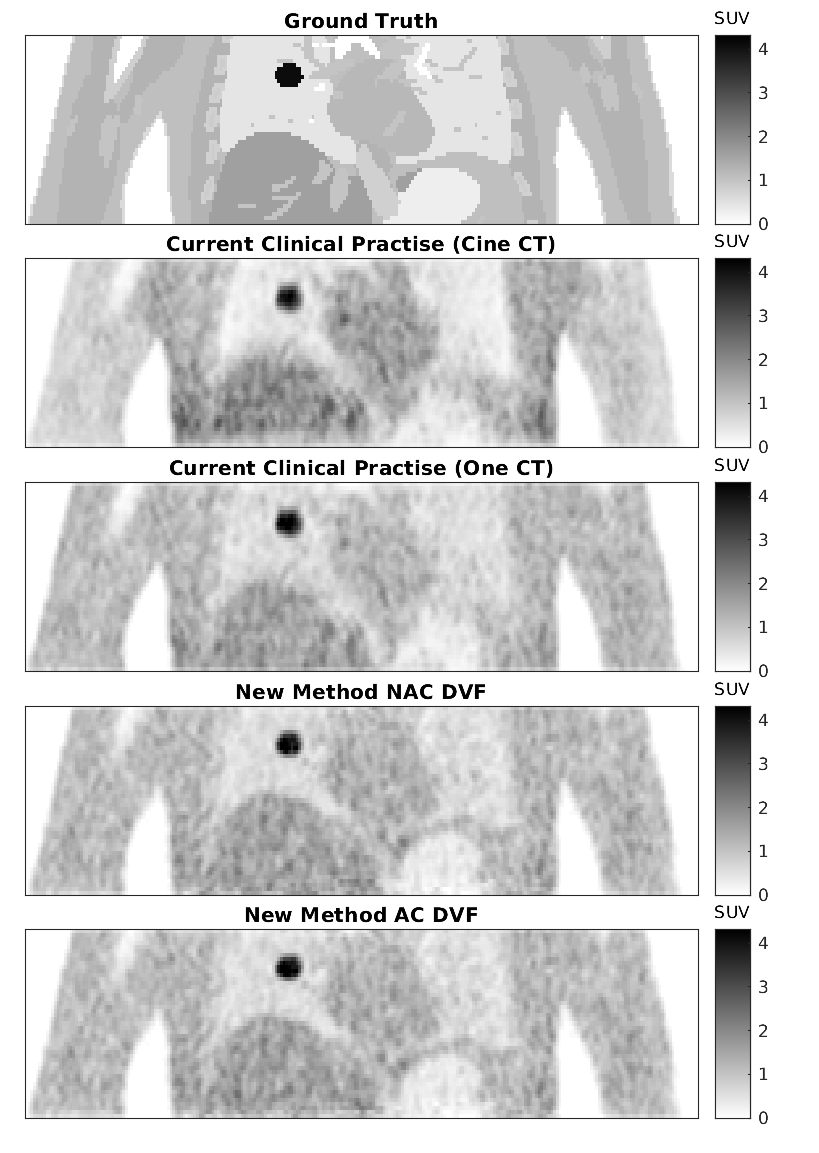
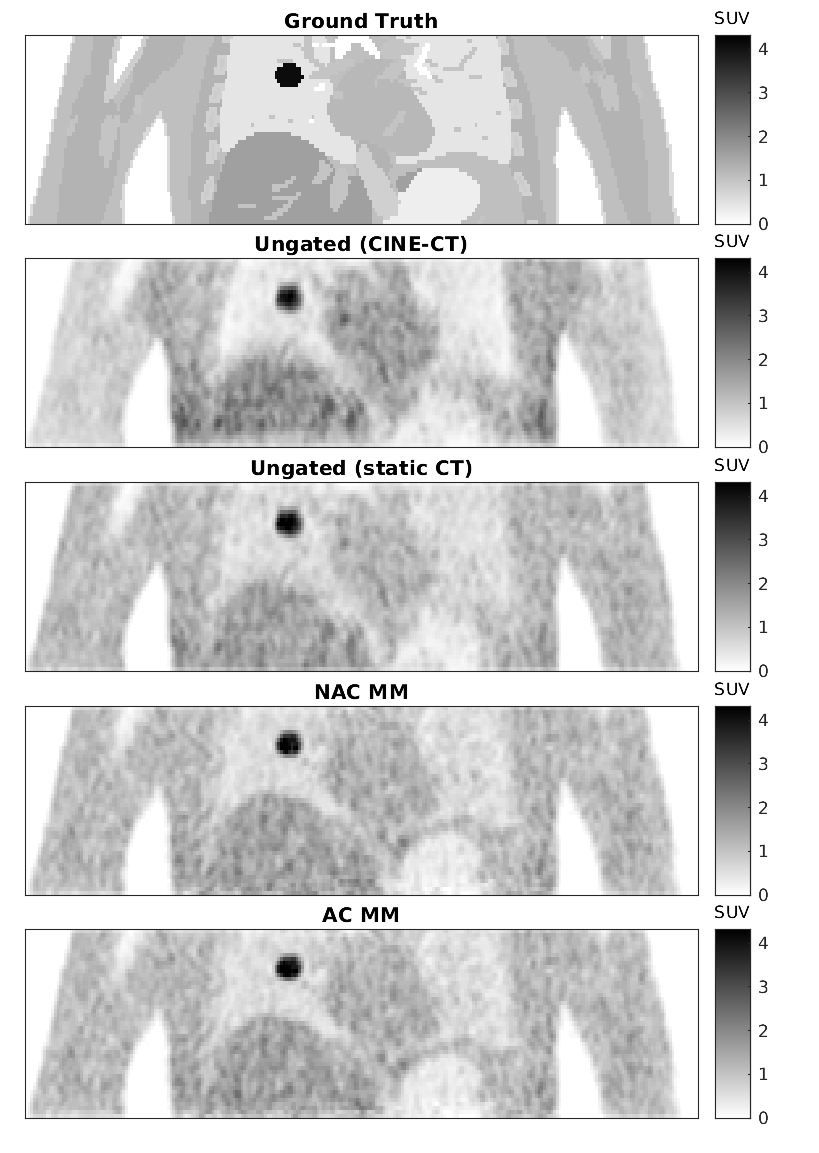
Updates from Overleaf

diff --git a/body.tex b/body.tex
@@ -1,63 +1,63 @@
 \section{Introduction} \label{sec:introduction}
-    \IEEEPARstart{R}{espiratory} motion reduces image resolution in \gls{PET} by introducing blurring \& mis-alignment artefacts~\cite{Nehmeh2008a}. Unless gated \gls{CT} are available (which themselves increase dose to the patient), to avoid mis-registration due to attenuation mismatches, most existing \gls{MC} methods rely on pair-wise registration of gated \gls{NAC} \gls{PET} volumes~\cite{LungMotionDiaphragmBaiBib}.%~\cite{Oliveira2014}.
-    This is a challenging problem due to the low contrast \& high noise of these volumes. Other \gls{MC} methods can incorporate, directly, both \gls{MC} \& \glss{Mu-Map} estimation into reconstruction, however, these can be computationally expensive~\cite{Bousse2016b}.
+    \IEEEPARstart{R}{espiratory} motion reduces image resolution in \gls{PET} by introducing blurring and mis-alignment artefacts~\cite{Nehmeh2008a}. Unless gated \gls{CT} are available (which themselves increase dose to the patient), to avoid mis-registration due to attenuation mismatches, most existing \gls{MC} methods rely on pair-wise registration of gated \gls{NAC} \gls{PET} volumes~\cite{LungMotionDiaphragmBaiBib}.%~\cite{Oliveira2014}.
+    This is a challenging problem due to the low contrast and high noise of these volumes. Other \gls{MC} methods can incorporate, directly, both \gls{MC} and \glss{Mu-Map} estimation into reconstruction, however, these can be computationally expensive~\cite{Bousse2016b}.
     
-    One \gls{MM} method uses \gls{3D} B-spline \glss{CPG} with the corresponding warping operation denoted as $\mathbf{W}(\mathbf{\alpha}_t)$, with $\mathbf{\alpha}_t$ a vector with coefficients at time $t$ \& the breathing surrogate signal $\mathbf{s}$:
-    
-    \vspace{-0.5cm}
-    
-    \begin{equation}
-        \forall t \in [1, n_t],\quad \alpha_{k, t} := R_{1, k} s_{1, t} + R_{2, k}
-    \end{equation}
-    
-    \vspace{-0.25cm}
-    
-    \noindent where $\alpha_{k, t}$ is the coefficient for node $k$ at time point $t$, \& $R_{i, k}$ are the model parameters where $i = [1, 2]$~\cite{McClelland2017}. One of the advantages of using a \gls{MM} approach over registering all the data to a static volume is that by incorporating a fit on the \gls{SS} noise from outlying registrations is diminished.
-    
-    In our previous work we investigated the possibility of using \gls{MM} for respiratory \gls{MC} where the \gls{RCM} was derived from \gls{NAC} \gls{PET}. We found that \gls{NAC} \gls{TOF} \gls{PET} was suitable to estimate the motion from gated PET data without inter-respiratory cycle variation~\cite{Whitehead2019ImpactPET}. This work extends the method towards \gls{AC} with a single \gls{Mu-Map} (from any position).
+    In our previous work we investigated the possibility of using \gls{MM} for respiratory \gls{MC} where the \gls{RCM} was derived from \gls{NAC} \gls{PET}. One of the advantages of using a \gls{MM} approach over pair-wise registering the data is that by incorporating a fit of the \gls{DVF} to the \gls{SS}, noise is diminished. We found that \gls{NAC} \gls{TOF} \gls{PET} was suitable to estimate the motion from gated PET data without inter-respiratory cycle variation~\cite{Whitehead2019ImpactPET}. This work extends the method towards attenuation correction with a single \gls{Mu-Map} (from any position).
 
-\vspace{-0.75cm}
+\vspace{-0.5cm}
 
 \section{Methods} \label{sec:methods}
     \subsection{XCAT Volume Generation} \label{sec:xcat_volume_generation}
-        \gls{XCAT}%~\cite{Segars2010}
-        was used to generate $240$ volumes over a \SI{120}{\second} respiratory trace (with inter-respiratory cycle variation) derived from a data captured using a \gls{RPM}. The max displacement of \gls{AP} \& \gls{SI} motion was set to \SI{1.2}{\centi\metre} \& \SI{2.0}{\centi\metre} respectively. Activity concentrations were derived from a static \gls{FDG} patient scan. The \gls{FOV} included the base of the lungs, diaphragm \& the top of the liver with a \SI{20}{\milli\metre} diameter spherical lesion placed into the centre of the right lung.
+        \gls{XCAT}%~\cite{Segars2010} 
+        was used to generate $240$ volumes over a \SI{120}{\second} respiratory trace (with inter-respiratory cycle variation) derived from a data captured using a \gls{RPM}. The max displacement of \gls{AP} and \gls{SI} motion was set to \SI{1.2}{\centi\metre} and \SI{2.0}{\centi\metre} respectively. Activity concentrations were derived from a static \gls{FDG} patient scan. The \gls{FOV} included the base of the lungs, diaphragm and the top of the liver with a \SI{20}{\milli\metre} diameter spherical lesion placed into the centre of the right lung.
     
     \vspace{-0.5cm}
     
     \subsection{PET Acquisition Simulation} \label{sec:pet_acquisition_simulation}
         \gls{PET} acquisitions were simulated %(and reconstructed)
-        using \gls{STIR}~\cite{Thielemans2012, Efthimiou2018} through \gls{SIRF}~\cite{ Ovtchinnikov2019CCPPETMRSIRF} to forward project the data using the geometry of a \gls{GE} Discovery $710$ with a \gls{TOF} resolution of \SI{375}{\pico\second}. This \gls{TOF} resolution is higher than that of the \gls{GE} Discovery $710$, but is closer to the newer \gls{GE} Signa \gls{PET}/\gls{MR} system. \gls{TOF} mashing is used to reduce computation time resulting in $13$ \gls{TOF} time bins of size \SI{376.5}{\pico\second}. Attenuation was included using the relevant \glss{Mu-Map} generated by \gls{XCAT}. Scatter \& randoms were not taken into account. Multiple noise realisations were generated to simulate an acquisition over \SI{120}{\second}, emulating a standard single bed position acquisition. A respiratory \gls{SS} was generated using \gls{PCA}.%~\cite{Thielemans2011}.
+        using \gls{STIR}~\cite{Thielemans2012, Efthimiou2018} through the \gls{SIRF}~\cite{Ovtchinnikov2019CCPPETMRSIRF} to forward project the data using the geometry of a \gls{GE} Discovery $710$ with a \gls{TOF} resolution of \SI{375}{\pico\second}. This \gls{TOF} resolution is higher than that of the $710$, but is closer to the newer \gls{GE} Signa PET/MR system. \gls{TOF} mashing was used to reduce computation time resulting in $13$ \gls{TOF} time bins of size \SI{376.5}{\pico\second}. Attenuation was included using the relevant \glss{Mu-Map} generated by \gls{XCAT}. Scatter and randoms were not taken into account. Multiple noise realisations were generated to simulate an acquisition over \SI{120}{\second}, emulating a standard single bed position acquisition. A respiratory \gls{SS} was generated using \gls{PCA}~\cite{Thielemans2011}.
         This was used to gate the data into $10$ respiratory bins using displacement gating.% For the purpose of the \gls{RCM} fitting, \gls{SS} values were ascertained for the post-gated data by taking an average of the \gls{SS} values of the data in each bin.
     
     \vspace{-0.5cm}
     
     \subsection{Non-Attenuation Corrected Image Reconstruction} \label{sec:non-attenuation_corrected_image_reconstruction}
-        Data were reconstructed without \gls{AC} using \gls{OSEM} with two full iterations \& $24$ subsets.%~\cite{Hudson1994}.
+        Data were reconstructed without \gls{AC} using \gls{OSEM} with two full iterations and $24$ subsets.%~\cite{Hudson1994}.
         Volumes were post-filtered using a Gaussian blur with a kernel size of \SI{6.4}{\milli\metre} \gls{FWHM}.
     
     \vspace{-0.5cm}
     
     \subsection{Motion Model Estimation} \label{sec:motion_model_estimation}
-        For each dataset \gls{3D} B-spline interpolated \glss{CPG} were used to model spatial deformations. A generalised framework unifying \gls{IR} \& respiratory \glss{MM} was used to estimate \glss{RCM} \& \glss{MCI}~\cite{McClelland2017}. \gls{SSD} was used as the similarity measure \& bending energy was used as a penalty.% The \gls{CPG} spacing \& penalty weight were tuned using a grid search.
+        The \gls{MM} method used in this work uses \gls{3D} B-spline \glss{CPG} with the corresponding warping operation denoted as $\mathbf{W}(\mathbf{\alpha}_t)$, with $\mathbf{\alpha}_t$ a vector with coefficients at time $t$ and the breathing surrogate signal $\mathbf{s}$:
+    
+        \vspace{-0.25cm}
+        
+        \begin{equation}
+            \forall t \in [1, n_t],\quad \alpha_{k, t} := R_{1, k} s_{1, t} + R_{2, k}
+        \end{equation}
+        
+        \vspace{-0.025cm}
+        
+        \noindent where $\alpha_{k, t}$ is the coefficient for node $k$ at time point $t$, and $R_{i, k}$ are the model parameters where $i = [1, 2]$~\cite{McClelland2017}. A generalised framework unifying \gls{IR} and respiratory \glss{MM} was used to estimate \glss{RCM} and \glss{MCI}~\cite{McClelland2017}. \gls{SSD} was used as the similarity measure and bending energy was used as a penalty.% The \gls{CPG} spacing and penalty weight were tuned using a grid search.
     
     \vspace{-0.5cm}
     
     \subsection{Attenuation Map Warping} \label{sec:attenuation_map_warping}
-        A \gls{Mu-Map}, as close to the mean respiratory position as possible, was selected from the \glss{Mu-Map} generated by \gls{XCAT}, this \gls{Mu-Map} was then registered to the mean position volume generated while fitting the \gls{RCM} from~\Fref{sec:motion_model_estimation}. A \gls{NMI} registration was used to accomplish this.% with parameters selected using a grid search.
+        A \gls{Mu-Map} close to the mean respiratory position was selected from the \glss{Mu-Map} generated by \gls{XCAT}, this \gls{Mu-Map} was then registered (using \gls{NMI}) to the mean position NAC volume generated from the \gls{RCM}.
         The \gls{RCM} was then used to generate \glss{DVF} for the \gls{SS} values of each bin, which were then used to warp the \gls{Mu-Map} from the mean respiratory position to each bin.
     
     \vspace{-0.5cm}
     
-    \subsection{Attenuation Corrected Motion Corrected Image Reconstruction} \label{sec:attenuation_corrected_image_reconstruction}
-        Data were re-reconstructed with \gls{AC} using the \glss{Mu-Map} from~\Fref{sec:attenuation_map_warping}. The same reconstruction parameters as in~\Fref{sec:attenuation_corrected_image_reconstruction} were used. This data was then either \gls{MC} using the original \gls{NAC} \gls{RCM} or a new \gls{RCM} was fit on the \gls{AC} data as in~\Fref{sec:motion_model_estimation}.
+    \subsection{Motion Corrected Image Reconstruction with AC} \label{sec:attenuation_corrected_image_reconstruction}
+        Data were re-reconstructed with \gls{AC} using the \glss{Mu-Map} from~\Fref{sec:attenuation_map_warping}. The same reconstruction parameters as in~\Fref{sec:attenuation_corrected_image_reconstruction} were used. This data was then either motion correction using the original \gls{NAC} \gls{RCM} or a new \gls{RCM} was fit on the \gls{AC} volumes as in~\Fref{sec:motion_model_estimation}.
     
     \vspace{-0.5cm}
     
     \subsection{Evaluation} \label{sec:evaluation}
-        %To evaluate the validity of the \gls{MM} results, the \gls{COM} of the lesion, over time, was tracked for both \gls{NAC} \& \gls{AC} reconstructions. This was achieved by warping a volume only including the lesion in the reference position, \& then computing its \gls{COM}.
+        %To evaluate the validity of the \gls{MM} results, the \gls{COM} of the lesion, over time, was tracked for both \gls{NAC} and \gls{AC} reconstructions. This was achieved by warping a volume only including the lesion in the reference position, and then computing its \gls{COM}.
         
-        In addition to the reconstructions performed in~\Fref{sec:attenuation_corrected_image_reconstruction} data were also reconstructed by simply summing all gates together \& using either a sum of all \glss{Mu-Map} (to emulate a \gls{CCT}) or one \gls{Mu-Map}, positioned as close to the mean respiratory position as possible, for \gls{AC}, this process matches \gls{CCP}. The data from this approach was used to evaluate the improvement that the new method afforded. The comparisons used included: A profile over the lesion \& \gls{SUV}\textsubscript{max}, \gls{SUV}\textsubscript{median} \& \gls{SUV}\textsubscript{peak}. \gls{SUV}\textsubscript{peak} here was defined following \gls{EANM} guidelines.%~\cite{Boellaard2015FDG2.0}
+        In addition to the reconstructions performed in~\Fref{sec:attenuation_corrected_image_reconstruction} data were also reconstructed after simply summing all gates together,  using either a sum of all \glss{Mu-Map} (to emulate an average CINE-CT) or one \gls{Mu-Map}, positioned  close to the mean respiratory position. This process matches clinical practise . 
+        
+        Comparisons used included: A profile over the lesion and \gls{SUV}\textsubscript{max}, \gls{SUV}\textsubscript{median} and \gls{SUV}\textsubscript{peak}. \gls{SUV}\textsubscript{peak} here was defined following \gls{EANM} guidelines.%~\cite{Boellaard2015FDG2.0}
 
 \vspace{-0.5cm}
 
@@ -66,18 +66,18 @@
     %    \centering
     %    \includegraphics[width=0.5\linewidth]{figures/com.png}
     %    \captionsetup{singlelinecheck=false, justification=centering}
-    %    \caption{The path of the \gls{COM} of the lesion. Horizontal (respectively vertical) axis corresponds to motion in the \gls{SI} (respectively \gls{AP}). Different curves denote \gls{COM} displacement for  ground truth data, the estimated data from the \gls{NAC} based \gls{RCM} \& the estimated data from the \gls{AC} based \gls{RCM}.}
+    %    \caption{The path of the \gls{COM} of the lesion. Horizontal (respectively vertical) axis corresponds to motion in the \gls{SI} (respectively \gls{AP}). Different curves denote \gls{COM} displacement for  ground truth data, the estimated data from the \gls{NAC} based \gls{RCM} and the estimated data from the \gls{AC} based \gls{RCM}.}
     %    \label{fig:com}
     %\end{figure}
     
-    %\gls{COM} results can be seen in~\Fref{fig:com}, the \gls{COM} of both the \gls{NAC} \& \gls{AC} matches closely the ground truth \gls{COM}.
+    %\gls{COM} results can be seen in~\Fref{fig:com}, the \gls{COM} of both the \gls{NAC} and \gls{AC} matches closely the ground truth \gls{COM}.
     
     \begin{figure}
         \vspace{-0.5cm}
         \centering
-        \includegraphics[width=0.75\linewidth]{figures/visual_analysis.png}
+        \includegraphics[width=0.9\linewidth]{figures/visual_analysis.png}
         \captionsetup{singlelinecheck=false, justification=centering}
-        \caption{Reconstructions using; \gls{CCP} using a \gls{CCT} \gls{Mu-Map}, \gls{CCP} using a static \gls{CT} \gls{Mu-Map}, new method using the \gls{NAC} \gls{RCM}, new method using the \gls{AC} \gls{RCM}. Colour map ranges are consistent for all images.}
+        \caption{Reconstructions using; ungated (CINE-\gls{CT}), ungated (static \gls{CT}), \gls{NAC} \gls{MM}, \gls{AC} \gls{MM}. Colour map ranges are consistent for all images.}
         \label{fig:visual_analysis}
         \vspace{-0.5cm}
     \end{figure}
@@ -85,9 +85,9 @@
     \begin{figure}
         \vspace{-0.0cm}
         \centering
-        \includegraphics[width=0.75\linewidth]{figures/profile.png}
+        \includegraphics[width=1.0\linewidth]{figures/profile.png}
         \captionsetup{singlelinecheck=false, justification=centering}
-        \caption{A profile across the lesion for; \gls{CCP} using a \gls{CCT} \gls{Mu-Map} volume, \gls{CCP} using a static \gls{CT} \gls{Mu-Map} volume, new method using the \gls{NAC} \gls{RCM} volume \& new method using the \gls{AC} \gls{RCM} volume.}
+        \caption{A profile across the lesion for; ungated (CINE-\gls{CT}), ungated (static \gls{CT}), \gls{NAC} \gls{MM}, \gls{AC} \gls{MM}.}
         \label{fig:profile}
         \vspace{-0.5cm}
     \end{figure}
@@ -96,19 +96,19 @@
         \vspace{-0.5cm}
         \centering
         \captionsetup{singlelinecheck=false, justification=centering}
-        \caption{Comparison of \gls{SUV}\textsubscript{max}, \gls{SUV}\textsubscript{median} \& \gls{SUV}\textsubscript{peak} between; \gls{CCP} using a \gls{CCT} \gls{Mu-Map} volume, \gls{CCP} using a static \gls{CT} \gls{Mu-Map} volume, new method using the \gls{NAC} \gls{RCM} volume \& new method using the \gls{AC} \gls{RCM} volume.}
+        \caption{Comparison of \gls{SUV}\textsubscript{max}, \gls{SUV}\textsubscript{median} and \gls{SUV}\textsubscript{peak} between; ungated (CINE-\gls{CT}), ungated (static \gls{CT}), \gls{NAC} \gls{MM}, \gls{AC} \gls{MM}.}
         
-        \resizebox*{0.75\linewidth}{!}
+        \resizebox*{1.0\linewidth}{!}
         {
             \begin{tabular}{||c|ccc||}
                 \hline
                 \textbf{\gls{SUV}} & \textbf{Max} & \textbf{Median} & \textbf{Peak} \\
                 \hline
-                \textbf{\gls{CCP} (\gls{CCT})}          & $4.63$ & $2.73$ & $3.39$ \\
-                \textbf{\gls{CCP} (One \gls{CT})}       & $4.66$ & $3.05$ & $3.54$ \\
+                \textbf{Ungated (CINE-\gls{CT})}    & $4.63$ & $2.73$ & $3.39$ \\
+                \textbf{Ungated (static \gls{CT})}  & $4.66$ & $3.05$ & $3.54$ \\
                 \hline
-                \textbf{New Method \gls{NAC} \gls{DVF}} & $5.56$ & $3.18$ & $4.07$ \\
-                \textbf{New Method \gls{AC} \gls{DVF}}  & $5.43$ & $3.18$ & $4.00$ \\
+                \textbf{\gls{NAC} \gls{MM}}         & $5.56$ & $3.18$ & $4.07$ \\
+                \textbf{\gls{AC} \gls{MM}}          & $5.43$ & $3.18$ & $4.00$ \\
                 \hline
             \end{tabular}
         }
@@ -116,12 +116,12 @@
         \vspace{-0.5cm}
     \end{table}
     
-     The \gls{CCP} data \& the new method data can be seen in~\Fref{fig:visual_analysis}. When compared visually structures can be seen, less blurred, in the new method data that cannot be seen in the \gls{CCP} data, for instance, structures at the boundary between the diaphragm \& the lung. Additionally the lesion itself can be seen to be more homogeneous, this can be observed in the profile across the lesion in~\Fref{fig:profile}. \gls{SUV} results can be seen in~\Fref{tab:suv} \& consistently show that \glss{SUV} are greater for the new method over \gls{CCP}.
+     The ungated and the \gls{MM} data can be seen in~\Fref{fig:visual_analysis}. When compared visually structures can be seen, less blurred, in the \gls{MM} data that cannot be seen in the ungated data, for instance, structures at the boundary between the diaphragm and the lung. Additionally the lesion itself can be seen to be more homogeneous, this can be observed in the profile across the lesion in~\Fref{fig:profile}. \gls{SUV} results can be seen in~\Fref{tab:suv} and consistently show that \glss{SUV} are greater for the \gls{MM} over ungated method.
 
 \vspace{-0.5cm}
 
-\section{Discussion \& Conclusions} \label{sec:discussion_and_conclusions}
-    Results from both a visual analysis, a comparison of profiles \& \glss{SUV} show that the new method provides volumes more free from blurring \& less susceptible to artefacts when compared to \gls{CCP}.
-    
-    In the future, research will focus on more complex methods of incorporating, directly, both \gls{MC} \glss{Mu-Map} \& \gls{MM} into reconstruction.
+\section{Discussion and Conclusions} \label{sec:discussion_and_conclusions}
+    Results from both a visual analysis, a comparison of profiles and \glss{SUV} show that the \gls{MM} provides volumes more free from blurring and less susceptible to artefacts when compared to the ungated data.
+    %
+    In the future, we will incorporate the estimated \glss{DVF} into the reconstruction. We will also compare  more complex methods of combining  motion estimation and image reconstruction based on \cite{Bousse2016b}.
     

diff --git a/main.tex b/main.tex
@@ -52,19 +52,19 @@
         
     \vspace{-1.0cm}
 
-    \thanks{Alexander~C.~Whitehead, Ander~Biguri, Brian~F.~Hutton \& Kris~Thielemans are with the Institute of Nuclear Medicine, University College London, London, NW1~2BU, UK (contact: \texttt{alexander.whitehead.18@ucl.ac.uk}).}%
+    \thanks{Alexander~C.~Whitehead, Ander~Biguri, Brian~F.~Hutton and Kris~Thielemans are with the Institute of Nuclear Medicine, University College London, London, NW1~2BU, UK (contact: \texttt{alexander.whitehead.18@ucl.ac.uk}).}%
     \thanks{Nikos~Efthimiou is with the Department Radiology, Perelman School of Medicine, University of Pennsylvania, Philadelphia, PA 19104-6055, USA.}%
-    \thanks{Alexander~C.~Whitehead \& Jamie~R.~McClelland are with the Centre for Medical Image Computing, University College London, London, NW1~2BU, UK.}%
-    \thanks{Scott~Wollenweber \& Charles~Stearns are with Molecular Imaging \& Computed Tomography Engineering, GE Healthcare, USA}%
-    \thanks{This research is supported by GE Healthcare, the NIHR UCLH Biomedical Research Centre \& the EPSRC-funded UCL Centre for Doctoral Training in Medical Imaging (EP/L016478/1). The software used was partly produced by the Computational Collaborative Project in Synergistic PET-MR Reconstruction, CCP PET-MR, UK EPSRC grant EP/M022587/1 \& the CCP on Synergistic Biomedical Imaging, CCP SyneRBI, UK EPSRC grant EP/T026693/1}%
-    \thanks{Jamie~R.~McClelland is supported by a Cancer Research UK Centres Network Accelerator Award Grant (A21993) to the ART-NET consortium \& a CRUK Multi-disciplinary grant (CRC 521).}%
+    \thanks{Alexander~C.~Whitehead and Jamie~R.~McClelland are with the Centre for Medical Image Computing, University College London, London, NW1~2BU, UK.}%
+    \thanks{Scott~Wollenweber and Charles~Stearns are with Molecular Imaging and Computed Tomography Engineering, GE Healthcare, USA}%
+    \thanks{This research is supported by GE Healthcare, the NIHR UCLH Biomedical Research Centre and the EPSRC-funded UCL Centre for Doctoral Training in Medical Imaging (EP/L016478/1). The software used was partly produced by the Computational Collaborative Project in Synergistic PET-MR Reconstruction, CCP PET-MR, UK EPSRC grant EP/M022587/1 and the CCP on Synergistic Biomedical Imaging, CCP SyneRBI, UK EPSRC grant EP/T026693/1}%
+    \thanks{Jamie~R.~McClelland is supported by a Cancer Research UK Centres Network Accelerator Award Grant (A21993) to the ART-NET consortium and a CRUK Multi-disciplinary grant (CRC 521).}%
 }
 
 \maketitle
 \IEEEpeerreviewmaketitle
 
 \begin{abstract}
-    Respiratory motion correction is beneficial in positron emission tomography. Different strategies for handling attenuation correction exist. In clinical practice, usually a single attenuation map is available, derived from CT in one respiratory state. This can introduce an unwanted bias (through misaligned anatomy) into the motion correction algorithm. This paper builds upon previous work which suggested that non-attenuation corrected data was suitable for motion correction, through the use of motion models, if time of flight data are available. Here, the previous work is expanded upon by incorporating attenuation correction in an iterative process. Non-attenuation corrected volumes are reconstructed using ordered subset expectation maximisation \& used as input for motion model estimation. A single attenuation map is then warped to the volumes, using the motion model, \& the volumes are attenuation corrected, after which another motion estimation \& correction cycle is performed. For validation, $4$-Dimensional Extended Cardiac Torso simulations are used, for one bed position, with a field of view including the base of the lungs \& the diaphragm. The output from the proposed method is evaluated against a non-motion corrected reconstruction of the same data using both a visual \& standardised uptake value analysis as well as a profiles volume. Results indicate that  motion correction of inter-respiratory cycle motion is possible with this method, while accounting for attenuation deformation. The implications for future research include the possibility of directly incorporating the motion model estimation into the reconstruction algorithm as well as also attempting to simultaneously estimate deformations for the attenuation map as well as the activity distribution.
+    Respiratory motion correction is beneficial in positron emission tomography. Different strategies for handling attenuation correction in conjunction with motion correction exist. In clinical practice, usually a single attenuation map is available, derived from CT in one respiratory state. This can introduce an unwanted bias (through misaligned anatomy) into the motion correction algorithm. This paper builds upon previous work which suggested that non-attenuation corrected data was suitable for motion estimation, through the use of motion models, if time of flight data are available. Here, the previous work is expanded upon by incorporating attenuation correction in an iterative process. Non-attenuation corrected volumes are reconstructed using ordered subset expectation maximisation and used as input for motion model estimation. A single attenuation map is then warped to the volumes, using the motion model, the volumes are attenuation corrected, after which another motion estimation and correction cycle is performed. For validation, $4$-Dimensional Extended Cardiac Torso simulations are used, for one bed position, with a field of view including the base of the lungs and the diaphragm. The output from the proposed method is evaluated against a non-motion corrected reconstruction of the same data   visually, using a standardised uptake value analysis as well as profile. Results indicate that  motion correction of inter-respiratory cycle motion is possible with this method, while accounting for attenuation deformation.% Future research includes the possibility of directly incorporating the motion model estimation into the reconstruction algorithm as well as  attempting to simultaneously estimate deformations for the attenuation map as well as the activity distribution.
 \end{abstract}
 
 \vspace{-0.5cm}
